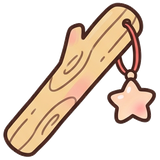
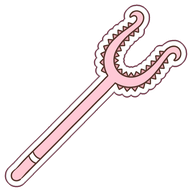
가로 4개는 세로로, 세로 4개는 가로로 터지게. 줄폭탄은 원작 토벌봉(분홍 사스마타) 하나가 방향대로 누움, 폭탄은 동글 폭탄

diff --git a/js/game.js b/js/game.js
@@ -552,9 +552,9 @@ function refreshTile(t) {
   if (t.special || t.type < 0) {
     const sp = t.special || 'rainbow';
     inner.classList.add('item', sp);
-    // 줄폭탄은 로켓 두 개가 등을 맞대고 터질 방향(가로 ◀▶ / 세로 ▲▼)을 가리킴
+    // 줄폭탄은 토벌봉 하나가 터질 방향으로 누워 있음 (가로: 갈래가 오른쪽 / 세로: 갈래가 위)
     inner.innerHTML = sp === 'h' || sp === 'v'
-      ? `<i class="axis"></i><img class="r1" src="${ITEM('rocket')}" draggable="false"><img class="r2" src="${ITEM('rocket')}" draggable="false">`
+      ? `<i class="axis"></i><img class="sp" src="${ITEM('rocket')}" draggable="false">`
       : `<img src="${ITEM(ITEM_ICON[sp] || sp)}" draggable="false">`;
     return;
   }
@@ -904,8 +904,8 @@ async function mergeFx(ta, tb, at) {
 async function comboFx(combo) {
   const [r, c] = combo.at;
   const p = tileCenter(r, c);
-  const names = { rainbow: '경단 대잔치!', rainbow2: '경단 대폭발!!', 'bomb+bomb': '뚜껑 대폭발!', 'bomb+h': '크로스 쾅!', 'bomb+v': '크로스 쾅!',
-    'plane+plane': '종이비행기 편대!', 'bomb+plane': '뚜껑 배달!', 'h+plane': '막대 배달!', 'plane+v': '막대 배달!' };
+  const names = { rainbow: '경단 대잔치!', rainbow2: '경단 대폭발!!', 'bomb+bomb': '대폭발!', 'bomb+h': '크로스 쾅!', 'bomb+v': '크로스 쾅!',
+    'plane+plane': '종이비행기 편대!', 'bomb+plane': '폭탄 배달!', 'h+plane': '토벌봉 배달!', 'plane+v': '토벌봉 배달!' };
   const label = names[combo.kind] || '크로스!';
   Juice.zoom(p.x, p.y, combo.kind.startsWith('rainbow') || combo.kind === 'bomb+bomb' ? 1.12 : 1.07);
   if (combo.converted) Board.each(B.grid, t => t.special && refreshTile(t));

diff --git a/css/style.css b/css/style.css
@@ -220,11 +220,11 @@ button { font-family: inherit; color: inherit; cursor: pointer; border: 0; backg
 /* 아이템: 원판 없이 아이콘만, 칸 안에 */
 .tile .inner.item { animation: itemBob 1.4s ease-in-out infinite; }
 .tile .inner.item img { transform: scale(.86); filter: drop-shadow(0 0 1.5px #fff) drop-shadow(0 0 1.5px #fff) drop-shadow(0 3px 0 #4a426240); }
-.tile .inner.item.h img, .tile .inner.item.v img { position: absolute; left: 50%; top: 50%; width: 52%; height: auto; }
-.tile .inner.item.h .r1 { transform: translate(-12%, -50%) rotate(45deg); }
-.tile .inner.item.h .r2 { transform: translate(-88%, -50%) rotate(-135deg); }
-.tile .inner.item.v .r1 { transform: translate(-50%, -88%) rotate(-45deg); }
-.tile .inner.item.v .r2 { transform: translate(-50%, -12%) rotate(135deg); }
+.tile .inner.item.h img, .tile .inner.item.v img { position: absolute; left: 50%; top: 50%; width: 100%; height: auto; }
+/* 그림은 갈래가 오른쪽 위(45도). 가로는 오른쪽으로, 세로는 위로 눕힘 */
+.tile .inner.item.h .sp { transform: translate(-50%, -50%) rotate(45deg) scale(1.12); }
+.tile .inner.item.v .sp { transform: translate(-50%, -50%) rotate(-45deg) scale(1.12); }
+.tile .inner.item .sp { filter: drop-shadow(0 0 1.5px #fff) drop-shadow(0 0 1.5px #fff) drop-shadow(0 0 1px #c2557f) drop-shadow(0 3px 0 #4a426240); }
 .tile .inner.item .axis { position: absolute; left: 50%; top: 50%; width: 84%; height: 22%; transform: translate(-50%, -50%); border-radius: 99px; background: #cfeeff; opacity: .9; }
 .tile .inner.item.v .axis { width: 22%; height: 84%; }
 

diff --git a/index.html b/index.html
@@ -6,7 +6,7 @@
 <title>먼작귀 퍼즐 토벌 대작전! (팬게임)</title>
 <link rel="preconnect" href="https://fonts.googleapis.com">
 <link href="https://fonts.googleapis.com/css2?family=Poor+Story&display=swap" rel="stylesheet">
-<link rel="stylesheet" href="css/style.css?v=26">
+<link rel="stylesheet" href="css/style.css?v=27">
 </head>
 <body>
 <div id="app">
@@ -220,14 +220,14 @@
   <div id="fx"></div>
   <div id="flash"></div>
 </div>
-<script src="js/data.js?v=26"></script>
-<script src="js/audio.js?v=26"></script>
-<script src="js/board.js?v=26"></script>
-<script src="js/game.js?v=26"></script>
-<script src="js/life.js?v=26"></script>
-<script src="js/tutor.js?v=26"></script>
-<script src="js/meta.js?v=26"></script>
-<script src="js/firebase-config.js?v=26"></script>
-<script src="js/net.js?v=26"></script>
+<script src="js/data.js?v=27"></script>
+<script src="js/audio.js?v=27"></script>
+<script src="js/board.js?v=27"></script>
+<script src="js/game.js?v=27"></script>
+<script src="js/life.js?v=27"></script>
+<script src="js/tutor.js?v=27"></script>
+<script src="js/meta.js?v=27"></script>
+<script src="js/firebase-config.js?v=27"></script>
+<script src="js/net.js?v=27"></script>
 </body>
 </html>

diff --git a/js/data.js b/js/data.js
@@ -72,8 +72,8 @@ const attrMult = (atk, def) => ((atk === 'light' && def === 'dark') || (atk === 
 const FACE = id => `assets/img/faces/${id}.png`;
 const BODY = id => `assets/img/chars/${id}.png`;
 const TILE = id => `assets/img/tiles/${id}.png`;
-// 아이템은 치이카와 원작 도구로: 줄폭탄=토벌 막대, 폭탄=냄비 뚜껑, 무지개=경단, 비행기=종이비행기 (VARCO로 그림)
-const ITEM_ALIAS = { rocket: 'stick', bomb: 'lid', rainbow: 'dango3', plane: 'paperplane' };
+// 아이템은 치이카와 원작 도구로: 줄폭탄=토벌봉, 폭탄=동글 폭탄, 무지개=경단, 비행기=종이비행기 (VARCO로 그림)
+const ITEM_ALIAS = { rocket: 'stick', bomb: 'bombball', rainbow: 'dango3', plane: 'paperplane' };
 const ITEM = name => `assets/img/items/${ITEM_ALIAS[name] || name}.png`;
 // 전신 그림이 없는 캐릭터는 얼굴로
 const NO_BODY = new Set(['kani', 'shooting', 'darkstar', 'goblin', 'beetle']);

diff --git a/js/tutor.js b/js/tutor.js
@@ -8,8 +8,8 @@ const OPENING = [
 ];
 // 아이템을 처음 만들었을 때 따라 하기 한 줄
 const LESSON = {
-  h: '토벌 막대다! 아무 쪽으로 쓱 밀면 한 줄을 싹 쓸어버려~',
-  bomb: '냄비 뚜껑이야! 쓱 밀면 주변이 쾅!',
+  h: '토벌봉이다! 아무 쪽으로 쓱 밀면 한 줄을 싹 쓸어버려~',
+  bomb: '폭탄이다! 쓱 밀면 주변이 쾅!',
   plane: '종이비행기야! 쓱 밀면 목표 쪽으로 날아가서 콕!',
   rainbow: '경단이다! 옆 얼굴이랑 바꾸면 그 얼굴이 전부 사라져',
 };

diff --git a/js/board.js b/js/board.js
@@ -110,7 +110,7 @@ const Board = {
     let kind = null;
     if (maxLen >= 5) kind = 'rainbow';
     else if (hasH && hasV) kind = 'bomb';
-    else if (maxLen === 4) kind = lines.find(r => r.cells.length === 4).dir;
+    else if (maxLen === 4) kind = lines.find(r => r.cells.length === 4).dir === 'h' ? 'v' : 'h'; // 가로 4개면 세로로, 세로 4개면 가로로 터짐
     else if (grp.runs.some(r => r.dir === 'sq')) kind = 'plane';
     if (!kind) return null;
     let pos = (swapped || []).find(([r, c]) => grp.keys.has(key(r, c)));
